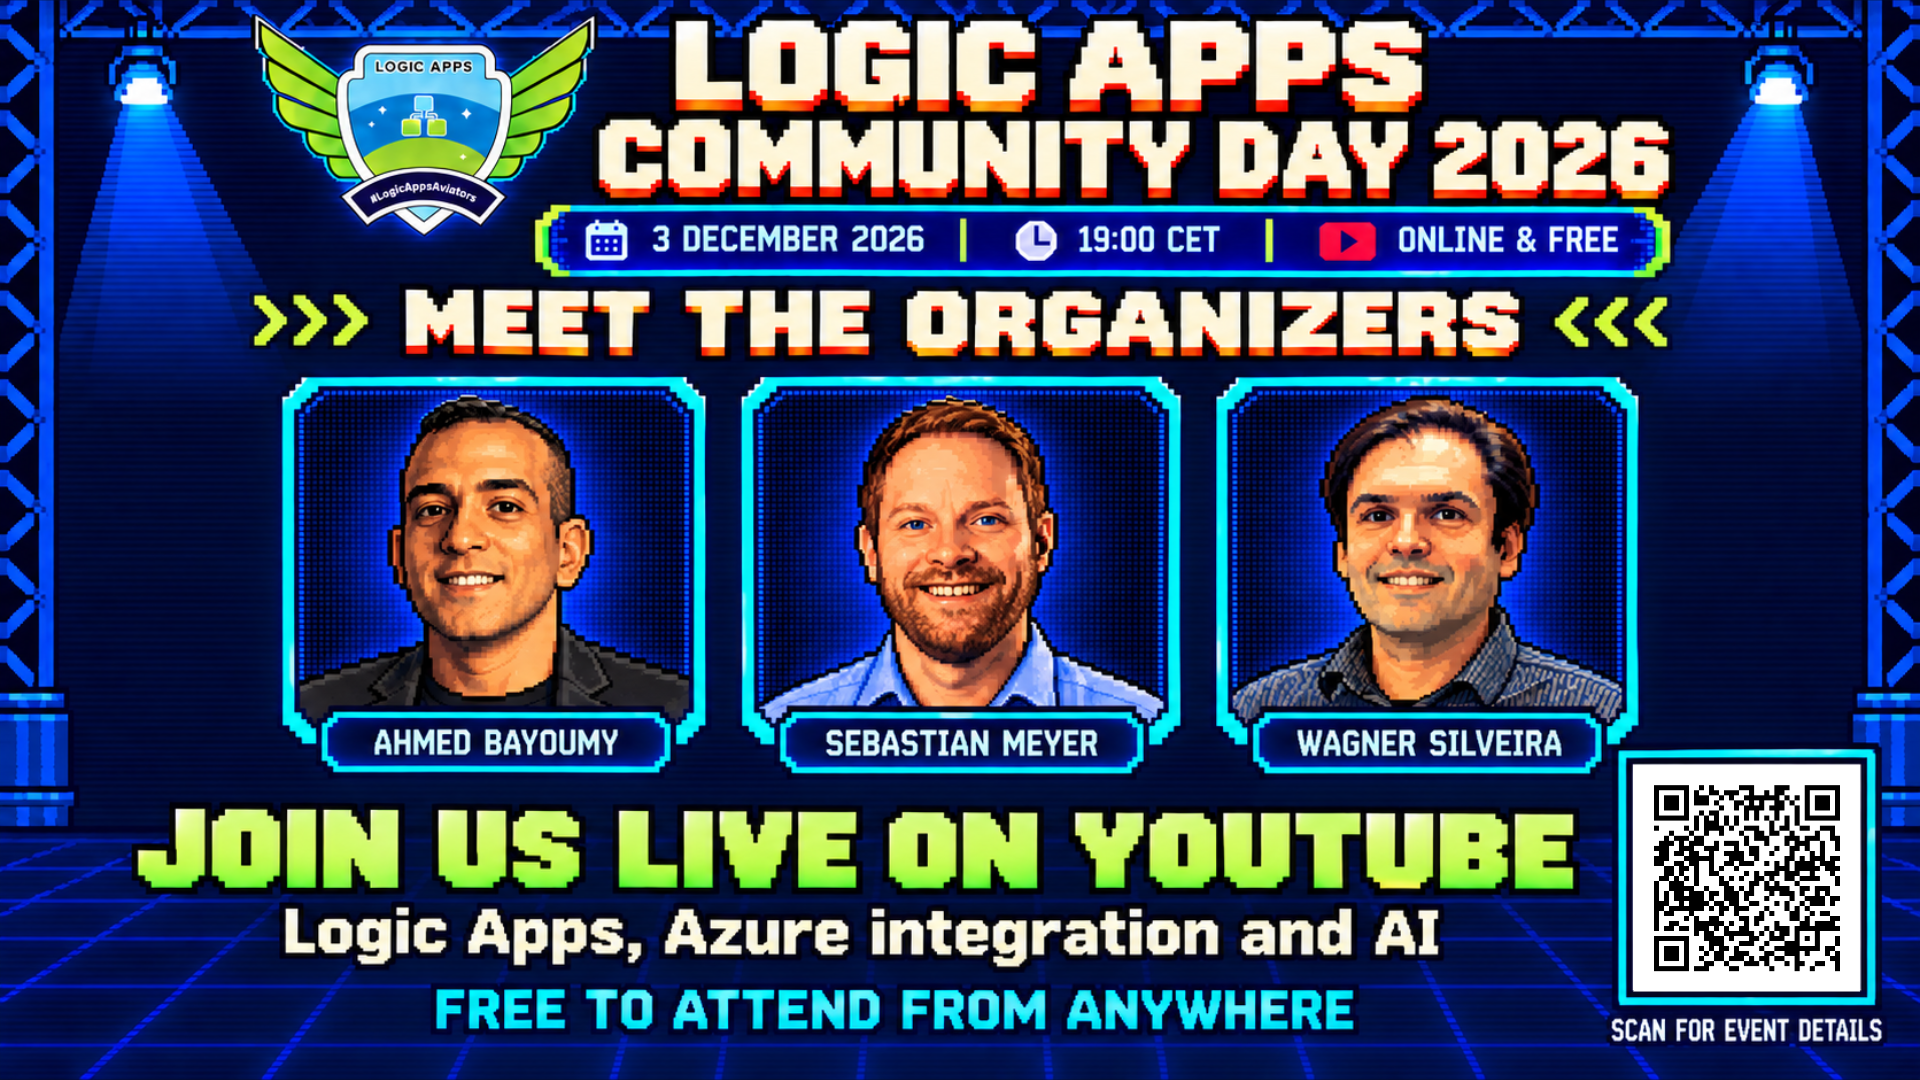
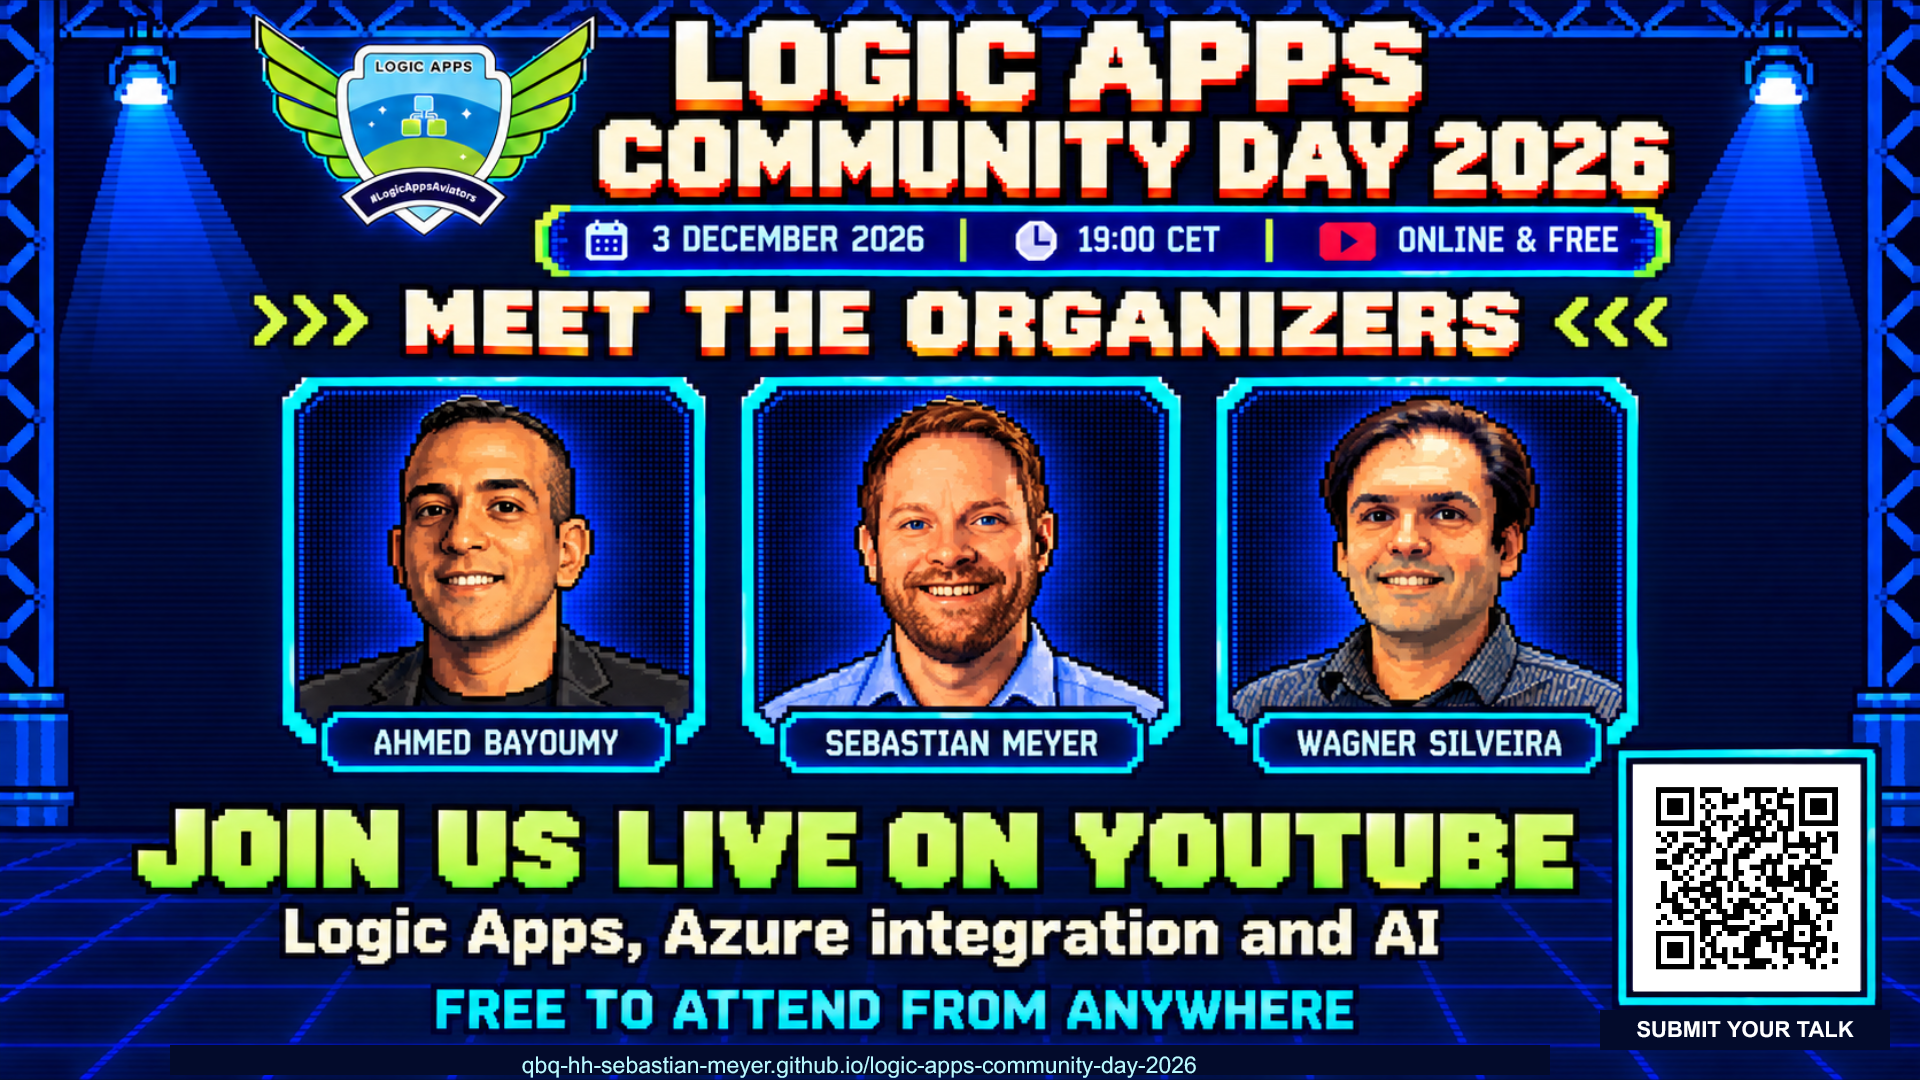
Point slide QR to submissions and show event website

Changed region(s): [[0.0938, 0.7028, 1.0, 1.0]]

diff --git a/uploads/logic-apps-live-2026/README.md b/uploads/logic-apps-live-2026/README.md
@@ -4,7 +4,7 @@ Matching arcade artwork for Logic Apps Community Day 2026.
 
 | File | Use |
 | --- | --- |
-| [logic-apps-event-qr.pptx](logic-apps-event-qr.pptx) | General event promotion slide with all three pixel-art organizers and a QR code linking to the event website. Recommended for Logic Apps Live. |
+| [logic-apps-event-qr.pptx](logic-apps-event-qr.pptx) | General event promotion slide with all three pixel-art organizers and a submission QR code and visible event website address. Recommended for Logic Apps Live. |
 | [logic-apps-event-qr.png](logic-apps-event-qr.png) | The same event promotion slide as a 1920 × 1080 PNG. |
 | [logic-apps-live.pptx](logic-apps-live.pptx) | One 16:9 PowerPoint slide with presenter notes. Copy into a Logic Apps Live deck. |
 | [logic-apps-live-slide.png](logic-apps-live-slide.png) | Standalone slide artwork for streaming or presentation software. |
@@ -18,6 +18,7 @@ The slide promotes the call for speakers, which closes on **20 October 2026 at 2
 
 Submission link: https://sessionize.com/logic-apps-community-day-2026
 
-The event QR slide promotes attendance and has no call-for-speakers deadline. Its QR code links to https://qbq-hh-sebastian-meyer.github.io/logic-apps-community-day-2026/ and was verified from the exported image at 1080p and 720p. In PowerPoint the QR is a separate image object.
+The event QR slide promotes attendance and has no call-for-speakers deadline. Its QR code links to https://sessionize.com/logic-apps-community-day-2026/ and was verified from the exported image at 1080p and 720p. In PowerPoint the QR is a separate image object.
 
 These are standalone download files. They do not change the website's HTML, CSS, scripts, or configuration.
+
